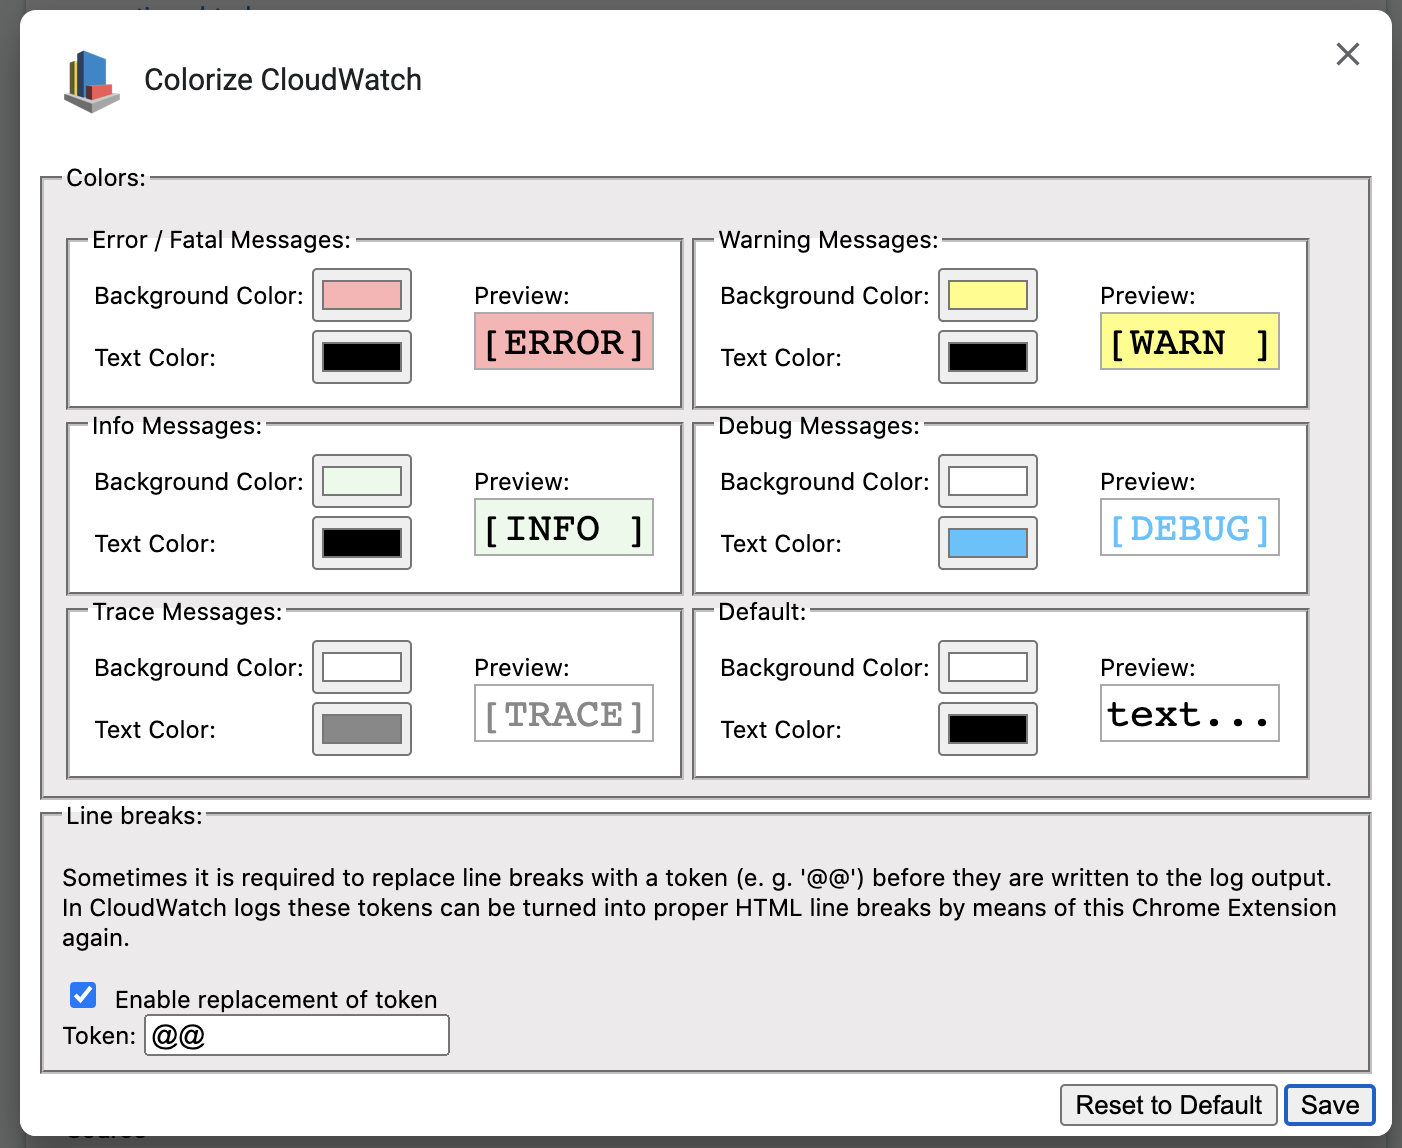
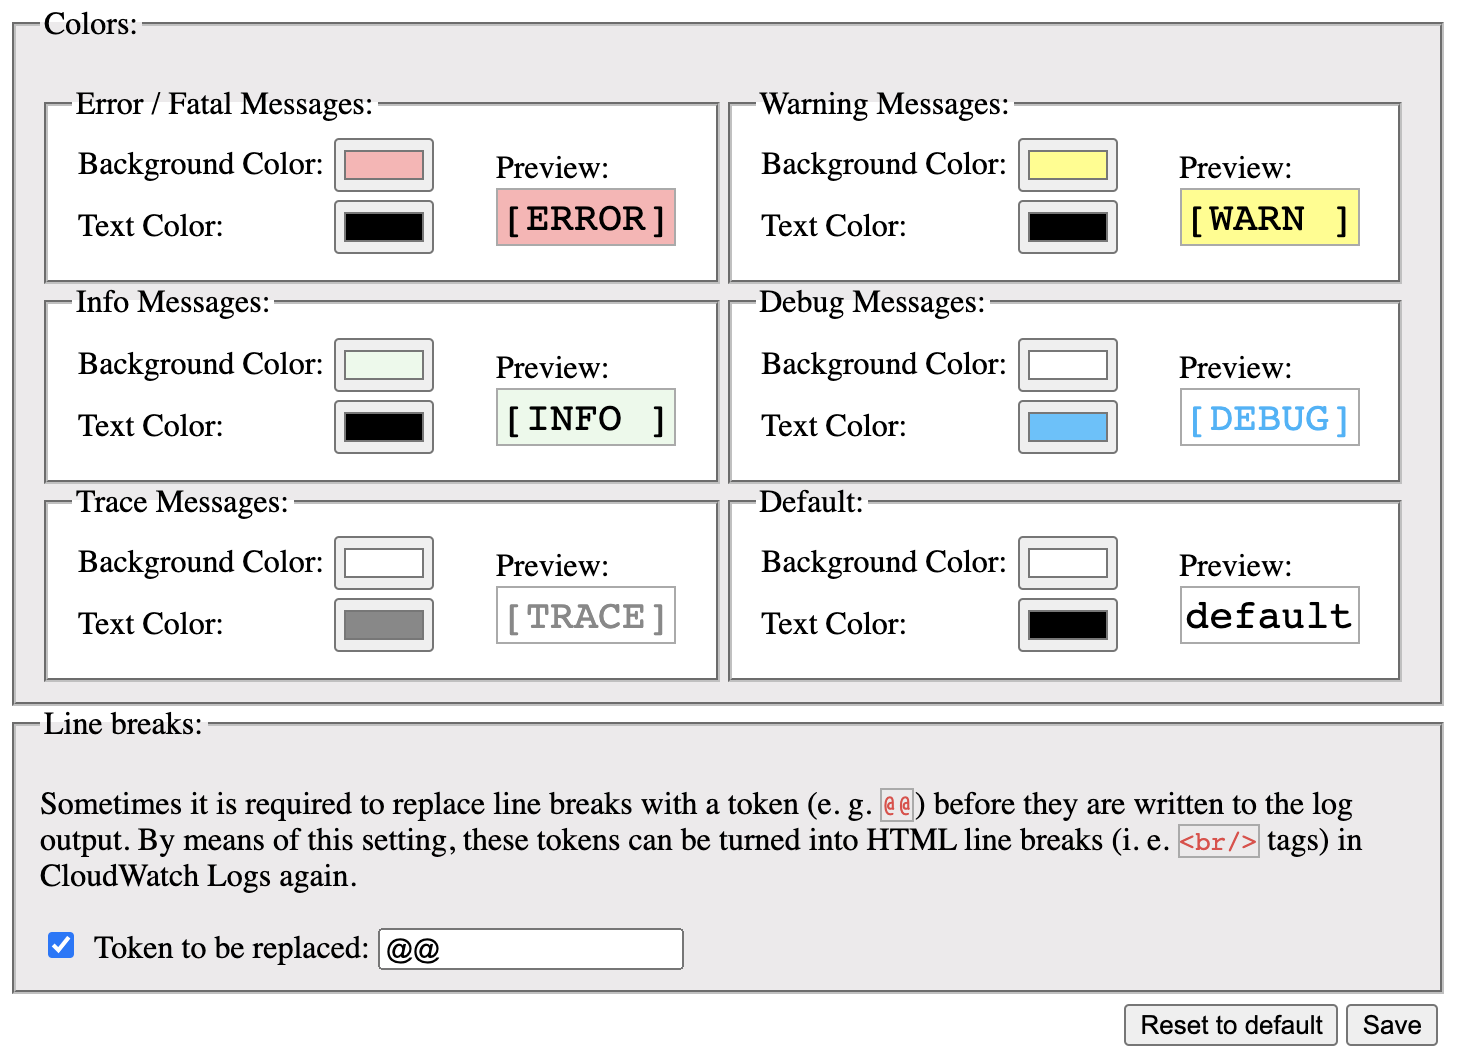
optimize display of options page

Changed region(s): [[0.0, 0.0, 1.0, 1.0]]

diff --git a/options.html b/options.html
@@ -31,6 +31,12 @@
             margin-top: 6px;
         }
 
+        .code {
+            font-family: monospace;
+            color: #E84545;
+            border: 1px solid #AAAAAA;
+        }
+
         #status {
             padding-top: 5px;
             min-height: 2em;
@@ -265,7 +271,7 @@
                     <label>Preview:</label><br/>
                 </td></tr>
                 <tr><td>
-                    <span id="DefaultPreview" class="preview" style="color: #000000; background-color: #FFFFFF">text...</span>
+                    <span id="DefaultPreview" class="preview" style="color: #000000; background-color: #FFFFFF">default</span>
                 </td></tr>
             </table>
         </div>
@@ -275,13 +281,13 @@
 <fieldset class="configArea">
     <legend>Line breaks:</legend>
     <p>
-        Sometimes it is required to replace line breaks with a token (e. g. '@@') before they are written to the log output.
-        In CloudWatch logs these tokens can be turned into proper HTML line breaks by means of this Chrome Extension again.
+        Sometimes it is required to replace line breaks with a token (e. g. <span class="code">@@</span>) before they
+        are written to the log output. By means of this setting, these tokens can be turned into HTML line breaks
+        (i. e. <span class="code">&lt;br/&gt;</span> tags) in CloudWatch Logs again.
     </p>
     <div>
         <input type="checkbox" id="LineBreakReplacementEnabled" name="LineBreakReplacementEnabled" checked="checked" />
-        <label for="LineBreakReplacementEnabled" style="margin-left: 3px;">Enable replacement of token</label><br/>
-        <label for="LineBreakReplacementToken">Token:</label>
+        <label for="LineBreakReplacementEnabled" style="margin-left: 3px;">Token to be replaced:</label>
         <input type="text" id="LineBreakReplacementToken" name="LineBreakReplacementToken" value="@@" />
     </div>
 </fieldset>
